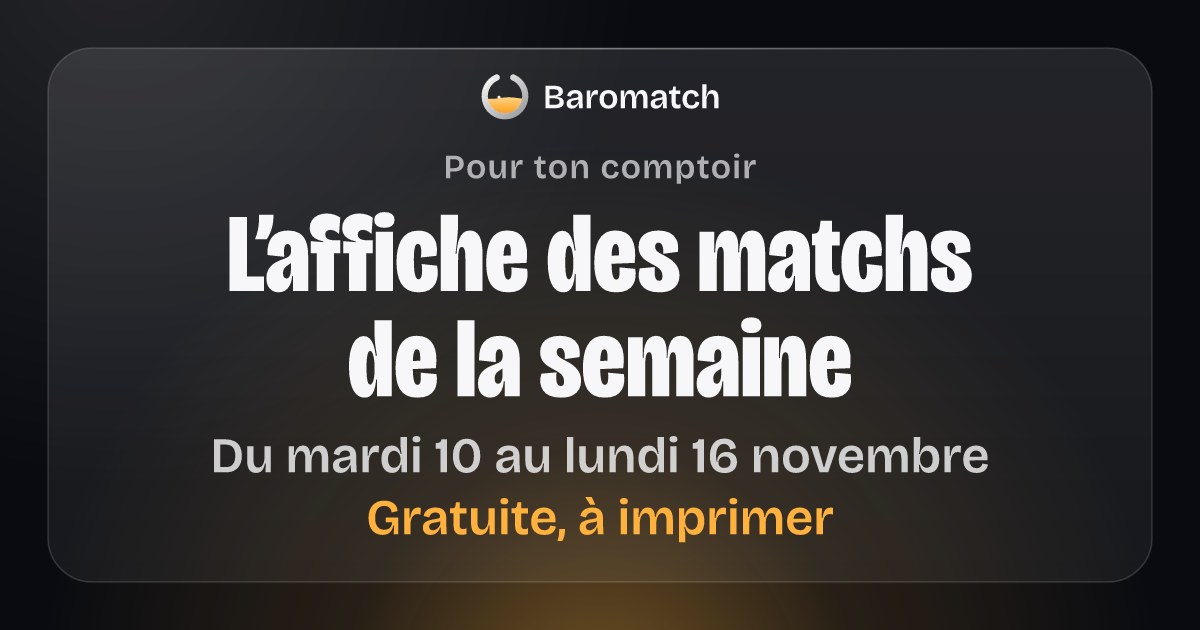
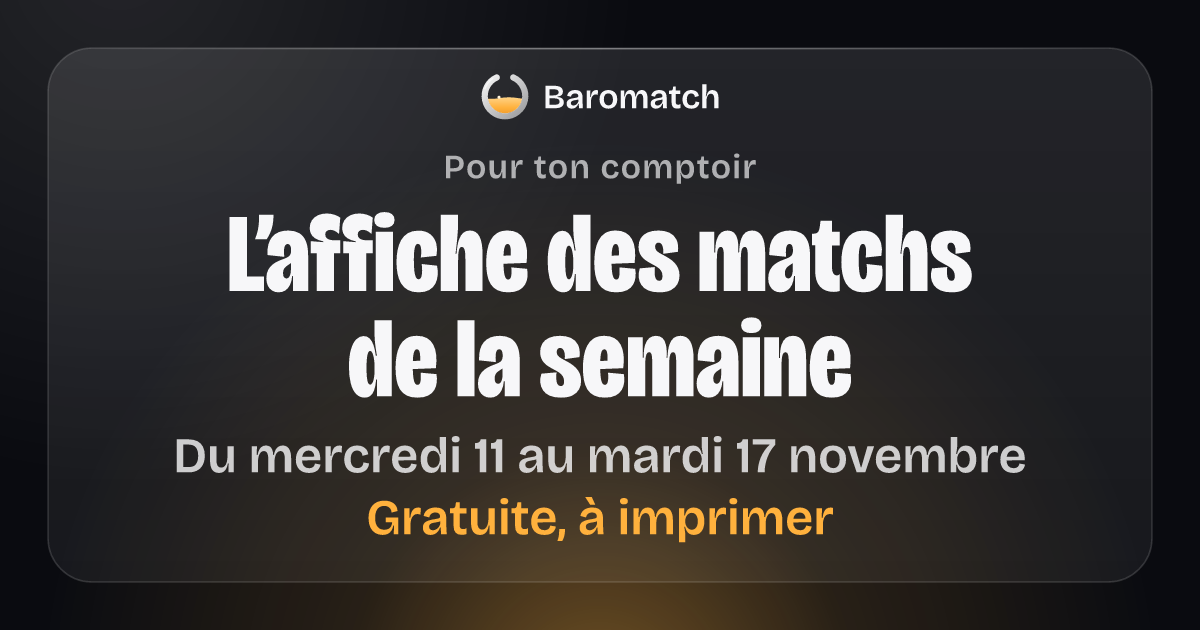
Pages des matchs : mise à jour du 11/11/2026 à 02:52

Changed region(s): [[0.1233, 0.6937, 0.8633, 0.754]]

diff --git a/matchs/affiche/pour-le-patron/index.html b/matchs/affiche/pour-le-patron/index.html
@@ -97,7 +97,7 @@
       <p class="affiche-appel">Propose ton bar : scanne le code.</p>
       <p class="affiche-appel__suite">Ou écris à contact@baromatch.fr</p>
       <p class="affiche-laissee" aria-hidden="true">Laissée par :<span class="affiche-laissee__trait"></span></p>
-      <p class="affiche-prepare"><svg class="affiche-verre" viewBox="0 0 200 200" aria-hidden="true" focusable="false"><clipPath id="affiche-bol"><circle cx="100" cy="100" r="67"/></clipPath><g clip-path="url(#affiche-bol)"><path d="M-200 108 q35 -6 70 0 t70 0 t70 0 t70 0 t70 0 t70 0 t70 0 t70 0 V215 H-200 Z" fill="#FFB13D"/></g><path d="M68.3 28.7 A78 78 0 1 0 131.7 28.7" fill="none" stroke="#0A0B10" stroke-width="16" stroke-linecap="round"/></svg><span>Feuille préparée sur baromatch.fr, le mardi 10 novembre.</span></p>
+      <p class="affiche-prepare"><svg class="affiche-verre" viewBox="0 0 200 200" aria-hidden="true" focusable="false"><clipPath id="affiche-bol"><circle cx="100" cy="100" r="67"/></clipPath><g clip-path="url(#affiche-bol)"><path d="M-200 108 q35 -6 70 0 t70 0 t70 0 t70 0 t70 0 t70 0 t70 0 t70 0 V215 H-200 Z" fill="#FFB13D"/></g><path d="M68.3 28.7 A78 78 0 1 0 131.7 28.7" fill="none" stroke="#0A0B10" stroke-width="16" stroke-linecap="round"/></svg><span>Feuille préparée sur baromatch.fr, le mercredi 11 novembre.</span></p>
     </div>
     <figure class="affiche-qr">
       <svg class="affiche-qr__code" viewBox="0 0 41 41" role="img" aria-label="QR code vers la page des bars de baromatch.fr, au formulaire pour proposer un bar" shape-rendering="crispEdges"><rect width="41" height="41" fill="#FFFFFF"/><path d="M4 4h7v1h-7zM12 4h1v1h-1zM15 4h1v1h-1zM18 4h2v1h-2zM21 4h1v1h-1zM25 4h1v1h-1zM27 4h1v1h-1zM30 4h7v1h-7zM4 5h1v1h-1zM10 5h1v1h-1zM20 5h2v1h-2zM23 5h1v1h-1zM25 5h2v1h-2zM30 5h1v1h-1zM36 5h1v1h-1zM4 6h1v1h-1zM6 6h3v1h-3zM10 6h1v1h-1zM13 6h2v1h-2zM17 6h1v1h-1zM20 6h1v1h-1zM23 6h3v1h-3zM27 6h2v1h-2zM30 6h1v1h-1zM32 6h3v1h-3zM36 6h1v1h-1zM4 7h1v1h-1zM6 7h3v1h-3zM10 7h1v1h-1zM12 7h1v1h-1zM14 7h2v1h-2zM18 7h2v1h-2zM21 7h4v1h-4zM30 7h1v1h-1zM32 7h3v1h-3zM36 7h1v1h-1zM4 8h1v1h-1zM6 8h3v1h-3zM10 8h1v1h-1zM12 8h3v1h-3zM16 8h1v1h-1zM18 8h1v1h-1zM22 8h3v1h-3zM26 8h2v1h-2zM30 8h1v1h-1zM32 8h3v1h-3zM36 8h1v1h-1zM4 9h1v1h-1zM10 9h1v1h-1zM12 9h1v1h-1zM17 9h1v1h-1zM20 9h1v1h-1zM22 9h2v1h-2zM28 9h1v1h-1zM30 9h1v1h-1zM36 9h1v1h-1zM4 10h7v1h-7zM12 10h1v1h-1zM14 10h1v1h-1zM16 10h1v1h-1zM18 10h1v1h-1zM20 10h1v1h-1zM22 10h1v1h-1zM24 10h1v1h-1zM26 10h1v1h-1zM28 10h1v1h-1zM30 10h7v1h-7zM12 11h4v1h-4zM18 11h4v1h-4zM25 11h1v1h-1zM27 11h1v1h-1zM4 12h1v1h-1zM8 12h1v1h-1zM10 12h3v1h-3zM14 12h1v1h-1zM16 12h1v1h-1zM20 12h2v1h-2zM23 12h4v1h-4zM28 12h6v1h-6zM36 12h1v1h-1zM5 13h3v1h-3zM9 13h1v1h-1zM12 13h3v1h-3zM17 13h4v1h-4zM22 13h1v1h-1zM24 13h1v1h-1zM26 13h2v1h-2zM29 13h1v1h-1zM33 13h2v1h-2zM5 14h1v1h-1zM7 14h2v1h-2zM10 14h1v1h-1zM19 14h1v1h-1zM21 14h1v1h-1zM26 14h5v1h-5zM33 14h1v1h-1zM35 14h1v1h-1zM4 15h1v1h-1zM6 15h2v1h-2zM14 15h1v1h-1zM18 15h2v1h-2zM21 15h3v1h-3zM25 15h1v1h-1zM28 15h1v1h-1zM36 15h1v1h-1zM4 16h1v1h-1zM10 16h2v1h-2zM15 16h4v1h-4zM22 16h6v1h-6zM29 16h2v1h-2zM32 16h2v1h-2zM35 16h2v1h-2zM5 17h1v1h-1zM7 17h1v1h-1zM9 17h1v1h-1zM11 17h1v1h-1zM14 17h1v1h-1zM17 17h1v1h-1zM20 17h2v1h-2zM23 17h1v1h-1zM27 17h1v1h-1zM29 17h1v1h-1zM31 17h1v1h-1zM34 17h1v1h-1zM5 18h2v1h-2zM8 18h4v1h-4zM16 18h1v1h-1zM18 18h1v1h-1zM20 18h1v1h-1zM22 18h2v1h-2zM25 18h1v1h-1zM27 18h4v1h-4zM32 18h1v1h-1zM34 18h2v1h-2zM4 19h4v1h-4zM13 19h3v1h-3zM18 19h1v1h-1zM21 19h6v1h-6zM28 19h3v1h-3zM33 19h1v1h-1zM4 20h4v1h-4zM10 20h3v1h-3zM14 20h3v1h-3zM19 20h1v1h-1zM21 20h1v1h-1zM25 20h4v1h-4zM30 20h1v1h-1zM32 20h1v1h-1zM35 20h1v1h-1zM5 21h1v1h-1zM7 21h3v1h-3zM11 21h2v1h-2zM16 21h1v1h-1zM18 21h4v1h-4zM27 21h1v1h-1zM29 21h1v1h-1zM33 21h2v1h-2zM5 22h3v1h-3zM10 22h1v1h-1zM14 22h1v1h-1zM16 22h5v1h-5zM22 22h1v1h-1zM25 22h1v1h-1zM27 22h1v1h-1zM31 22h1v1h-1zM33 22h1v1h-1zM35 22h1v1h-1zM6 23h2v1h-2zM9 23h1v1h-1zM11 23h2v1h-2zM14 23h1v1h-1zM18 23h2v1h-2zM23 23h3v1h-3zM29 23h3v1h-3zM35 23h1v1h-1zM6 24h1v1h-1zM10 24h2v1h-2zM13 24h1v1h-1zM15 24h1v1h-1zM19 24h2v1h-2zM23 24h1v1h-1zM25 24h2v1h-2zM28 24h1v1h-1zM30 24h1v1h-1zM32 24h2v1h-2zM35 24h2v1h-2zM4 25h5v1h-5zM11 25h3v1h-3zM18 25h1v1h-1zM22 25h3v1h-3zM26 25h2v1h-2zM31 25h1v1h-1zM33 25h1v1h-1zM35 25h1v1h-1zM6 26h5v1h-5zM12 26h1v1h-1zM14 26h2v1h-2zM19 26h1v1h-1zM21 26h2v1h-2zM24 26h1v1h-1zM26 26h2v1h-2zM31 26h5v1h-5zM8 27h2v1h-2zM12 27h1v1h-1zM18 27h5v1h-5zM25 27h1v1h-1zM30 27h1v1h-1zM32 27h1v1h-1zM4 28h5v1h-5zM10 28h1v1h-1zM14 28h1v1h-1zM16 28h2v1h-2zM21 28h1v1h-1zM23 28h4v1h-4zM28 28h5v1h-5zM35 28h2v1h-2zM12 29h3v1h-3zM16 29h1v1h-1zM18 29h3v1h-3zM27 29h2v1h-2zM32 29h1v1h-1zM34 29h2v1h-2zM4 30h7v1h-7zM12 30h1v1h-1zM15 30h2v1h-2zM19 30h1v1h-1zM21 30h1v1h-1zM26 30h1v1h-1zM28 30h1v1h-1zM30 30h1v1h-1zM32 30h2v1h-2zM35 30h1v1h-1zM4 31h1v1h-1zM10 31h1v1h-1zM16 31h4v1h-4zM21 31h6v1h-6zM28 31h1v1h-1zM32 31h1v1h-1zM36 31h1v1h-1zM4 32h1v1h-1zM6 32h3v1h-3zM10 32h1v1h-1zM12 32h3v1h-3zM17 32h1v1h-1zM19 32h1v1h-1zM22 32h1v1h-1zM24 32h1v1h-1zM28 32h6v1h-6zM35 32h2v1h-2zM4 33h1v1h-1zM6 33h3v1h-3zM10 33h1v1h-1zM14 33h3v1h-3zM20 33h1v1h-1zM23 33h1v1h-1zM25 33h1v1h-1zM27 33h2v1h-2zM30 33h3v1h-3zM4 34h1v1h-1zM6 34h3v1h-3zM10 34h1v1h-1zM13 34h4v1h-4zM20 34h1v1h-1zM23 34h1v1h-1zM25 34h3v1h-3zM30 34h4v1h-4zM4 35h1v1h-1zM10 35h1v1h-1zM14 35h5v1h-5zM21 35h1v1h-1zM23 35h4v1h-4zM28 35h1v1h-1zM4 36h7v1h-7zM12 36h1v1h-1zM14 36h1v1h-1zM16 36h1v1h-1zM18 36h2v1h-2zM21 36h2v1h-2zM24 36h2v1h-2zM27 36h4v1h-4zM33 36h1v1h-1zM36 36h1v1h-1z" fill="#000000"/></svg>
@@ -122,7 +122,7 @@
       <p class="affiche-appel">Propose ton bar : scanne le code.</p>
       <p class="affiche-appel__suite">Ou écris à contact@baromatch.fr</p>
       <p class="affiche-laissee" aria-hidden="true">Laissée par :<span class="affiche-laissee__trait"></span></p>
-      <p class="affiche-prepare"><svg class="affiche-verre" viewBox="0 0 200 200" aria-hidden="true" focusable="false"><clipPath id="affiche-bol-copie"><circle cx="100" cy="100" r="67"/></clipPath><g clip-path="url(#affiche-bol-copie)"><path d="M-200 108 q35 -6 70 0 t70 0 t70 0 t70 0 t70 0 t70 0 t70 0 t70 0 V215 H-200 Z" fill="#FFB13D"/></g><path d="M68.3 28.7 A78 78 0 1 0 131.7 28.7" fill="none" stroke="#0A0B10" stroke-width="16" stroke-linecap="round"/></svg><span>Feuille préparée sur baromatch.fr, le mardi 10 novembre.</span></p>
+      <p class="affiche-prepare"><svg class="affiche-verre" viewBox="0 0 200 200" aria-hidden="true" focusable="false"><clipPath id="affiche-bol-copie"><circle cx="100" cy="100" r="67"/></clipPath><g clip-path="url(#affiche-bol-copie)"><path d="M-200 108 q35 -6 70 0 t70 0 t70 0 t70 0 t70 0 t70 0 t70 0 t70 0 V215 H-200 Z" fill="#FFB13D"/></g><path d="M68.3 28.7 A78 78 0 1 0 131.7 28.7" fill="none" stroke="#0A0B10" stroke-width="16" stroke-linecap="round"/></svg><span>Feuille préparée sur baromatch.fr, le mercredi 11 novembre.</span></p>
     </div>
     <figure class="affiche-qr">
       <svg class="affiche-qr__code" viewBox="0 0 41 41" role="img" aria-label="QR code vers la page des bars de baromatch.fr, au formulaire pour proposer un bar" shape-rendering="crispEdges"><rect width="41" height="41" fill="#FFFFFF"/><path d="M4 4h7v1h-7zM12 4h1v1h-1zM15 4h1v1h-1zM18 4h2v1h-2zM21 4h1v1h-1zM25 4h1v1h-1zM27 4h1v1h-1zM30 4h7v1h-7zM4 5h1v1h-1zM10 5h1v1h-1zM20 5h2v1h-2zM23 5h1v1h-1zM25 5h2v1h-2zM30 5h1v1h-1zM36 5h1v1h-1zM4 6h1v1h-1zM6 6h3v1h-3zM10 6h1v1h-1zM13 6h2v1h-2zM17 6h1v1h-1zM20 6h1v1h-1zM23 6h3v1h-3zM27 6h2v1h-2zM30 6h1v1h-1zM32 6h3v1h-3zM36 6h1v1h-1zM4 7h1v1h-1zM6 7h3v1h-3zM10 7h1v1h-1zM12 7h1v1h-1zM14 7h2v1h-2zM18 7h2v1h-2zM21 7h4v1h-4zM30 7h1v1h-1zM32 7h3v1h-3zM36 7h1v1h-1zM4 8h1v1h-1zM6 8h3v1h-3zM10 8h1v1h-1zM12 8h3v1h-3zM16 8h1v1h-1zM18 8h1v1h-1zM22 8h3v1h-3zM26 8h2v1h-2zM30 8h1v1h-1zM32 8h3v1h-3zM36 8h1v1h-1zM4 9h1v1h-1zM10 9h1v1h-1zM12 9h1v1h-1zM17 9h1v1h-1zM20 9h1v1h-1zM22 9h2v1h-2zM28 9h1v1h-1zM30 9h1v1h-1zM36 9h1v1h-1zM4 10h7v1h-7zM12 10h1v1h-1zM14 10h1v1h-1zM16 10h1v1h-1zM18 10h1v1h-1zM20 10h1v1h-1zM22 10h1v1h-1zM24 10h1v1h-1zM26 10h1v1h-1zM28 10h1v1h-1zM30 10h7v1h-7zM12 11h4v1h-4zM18 11h4v1h-4zM25 11h1v1h-1zM27 11h1v1h-1zM4 12h1v1h-1zM8 12h1v1h-1zM10 12h3v1h-3zM14 12h1v1h-1zM16 12h1v1h-1zM20 12h2v1h-2zM23 12h4v1h-4zM28 12h6v1h-6zM36 12h1v1h-1zM5 13h3v1h-3zM9 13h1v1h-1zM12 13h3v1h-3zM17 13h4v1h-4zM22 13h1v1h-1zM24 13h1v1h-1zM26 13h2v1h-2zM29 13h1v1h-1zM33 13h2v1h-2zM5 14h1v1h-1zM7 14h2v1h-2zM10 14h1v1h-1zM19 14h1v1h-1zM21 14h1v1h-1zM26 14h5v1h-5zM33 14h1v1h-1zM35 14h1v1h-1zM4 15h1v1h-1zM6 15h2v1h-2zM14 15h1v1h-1zM18 15h2v1h-2zM21 15h3v1h-3zM25 15h1v1h-1zM28 15h1v1h-1zM36 15h1v1h-1zM4 16h1v1h-1zM10 16h2v1h-2zM15 16h4v1h-4zM22 16h6v1h-6zM29 16h2v1h-2zM32 16h2v1h-2zM35 16h2v1h-2zM5 17h1v1h-1zM7 17h1v1h-1zM9 17h1v1h-1zM11 17h1v1h-1zM14 17h1v1h-1zM17 17h1v1h-1zM20 17h2v1h-2zM23 17h1v1h-1zM27 17h1v1h-1zM29 17h1v1h-1zM31 17h1v1h-1zM34 17h1v1h-1zM5 18h2v1h-2zM8 18h4v1h-4zM16 18h1v1h-1zM18 18h1v1h-1zM20 18h1v1h-1zM22 18h2v1h-2zM25 18h1v1h-1zM27 18h4v1h-4zM32 18h1v1h-1zM34 18h2v1h-2zM4 19h4v1h-4zM13 19h3v1h-3zM18 19h1v1h-1zM21 19h6v1h-6zM28 19h3v1h-3zM33 19h1v1h-1zM4 20h4v1h-4zM10 20h3v1h-3zM14 20h3v1h-3zM19 20h1v1h-1zM21 20h1v1h-1zM25 20h4v1h-4zM30 20h1v1h-1zM32 20h1v1h-1zM35 20h1v1h-1zM5 21h1v1h-1zM7 21h3v1h-3zM11 21h2v1h-2zM16 21h1v1h-1zM18 21h4v1h-4zM27 21h1v1h-1zM29 21h1v1h-1zM33 21h2v1h-2zM5 22h3v1h-3zM10 22h1v1h-1zM14 22h1v1h-1zM16 22h5v1h-5zM22 22h1v1h-1zM25 22h1v1h-1zM27 22h1v1h-1zM31 22h1v1h-1zM33 22h1v1h-1zM35 22h1v1h-1zM6 23h2v1h-2zM9 23h1v1h-1zM11 23h2v1h-2zM14 23h1v1h-1zM18 23h2v1h-2zM23 23h3v1h-3zM29 23h3v1h-3zM35 23h1v1h-1zM6 24h1v1h-1zM10 24h2v1h-2zM13 24h1v1h-1zM15 24h1v1h-1zM19 24h2v1h-2zM23 24h1v1h-1zM25 24h2v1h-2zM28 24h1v1h-1zM30 24h1v1h-1zM32 24h2v1h-2zM35 24h2v1h-2zM4 25h5v1h-5zM11 25h3v1h-3zM18 25h1v1h-1zM22 25h3v1h-3zM26 25h2v1h-2zM31 25h1v1h-1zM33 25h1v1h-1zM35 25h1v1h-1zM6 26h5v1h-5zM12 26h1v1h-1zM14 26h2v1h-2zM19 26h1v1h-1zM21 26h2v1h-2zM24 26h1v1h-1zM26 26h2v1h-2zM31 26h5v1h-5zM8 27h2v1h-2zM12 27h1v1h-1zM18 27h5v1h-5zM25 27h1v1h-1zM30 27h1v1h-1zM32 27h1v1h-1zM4 28h5v1h-5zM10 28h1v1h-1zM14 28h1v1h-1zM16 28h2v1h-2zM21 28h1v1h-1zM23 28h4v1h-4zM28 28h5v1h-5zM35 28h2v1h-2zM12 29h3v1h-3zM16 29h1v1h-1zM18 29h3v1h-3zM27 29h2v1h-2zM32 29h1v1h-1zM34 29h2v1h-2zM4 30h7v1h-7zM12 30h1v1h-1zM15 30h2v1h-2zM19 30h1v1h-1zM21 30h1v1h-1zM26 30h1v1h-1zM28 30h1v1h-1zM30 30h1v1h-1zM32 30h2v1h-2zM35 30h1v1h-1zM4 31h1v1h-1zM10 31h1v1h-1zM16 31h4v1h-4zM21 31h6v1h-6zM28 31h1v1h-1zM32 31h1v1h-1zM36 31h1v1h-1zM4 32h1v1h-1zM6 32h3v1h-3zM10 32h1v1h-1zM12 32h3v1h-3zM17 32h1v1h-1zM19 32h1v1h-1zM22 32h1v1h-1zM24 32h1v1h-1zM28 32h6v1h-6zM35 32h2v1h-2zM4 33h1v1h-1zM6 33h3v1h-3zM10 33h1v1h-1zM14 33h3v1h-3zM20 33h1v1h-1zM23 33h1v1h-1zM25 33h1v1h-1zM27 33h2v1h-2zM30 33h3v1h-3zM4 34h1v1h-1zM6 34h3v1h-3zM10 34h1v1h-1zM13 34h4v1h-4zM20 34h1v1h-1zM23 34h1v1h-1zM25 34h3v1h-3zM30 34h4v1h-4zM4 35h1v1h-1zM10 35h1v1h-1zM14 35h5v1h-5zM21 35h1v1h-1zM23 35h4v1h-4zM28 35h1v1h-1zM4 36h7v1h-7zM12 36h1v1h-1zM14 36h1v1h-1zM16 36h1v1h-1zM18 36h2v1h-2zM21 36h2v1h-2zM24 36h2v1h-2zM27 36h4v1h-4zM33 36h1v1h-1zM36 36h1v1h-1z" fill="#000000"/></svg>

diff --git a/ce-soir/index.html b/ce-soir/index.html
@@ -6,8 +6,8 @@
 <!-- Page écrite par le générateur des pages des matchs (dossier generateur du dépôt), à chaque passage : une retouche
      à la main serait effacée au suivant. Aucun script écrit dans la page : seulement les fichiers du site. -->
 <meta http-equiv="Content-Security-Policy" content="default-src 'self'; script-src 'self'; style-src 'self'; img-src 'self' data:; font-src 'self'; connect-src 'self'; base-uri 'none'; object-src 'none'; form-action https://formspree.io">
-<title>Les matchs de ce soir, mardi 10 novembre — Baromatch</title>
-<meta name="description" content="Mardi 10 novembre : pas de match annoncé ce soir. Les prochains, à l’heure de Paris, et les villes, sur Baromatch.">
+<title>Les matchs de ce soir, mercredi 11 novembre — Baromatch</title>
+<meta name="description" content="Mercredi 11 novembre : pas de match annoncé ce soir. Les prochains, à l’heure de Paris, et les villes, sur Baromatch.">
 <meta name="robots" content="noindex">
 <link rel="canonical" href="https://baromatch.fr/ce-soir/">
 <meta name="theme-color" content="#0A0B10">
@@ -20,18 +20,18 @@
 <meta property="og:type" content="website">
 <meta property="og:locale" content="fr_FR">
 <meta property="og:site_name" content="Baromatch">
-<meta property="og:title" content="Les matchs de ce soir, mardi 10 novembre — Baromatch">
-<meta property="og:description" content="Mardi 10 novembre : pas de match annoncé ce soir. Les prochains, à l’heure de Paris, et les villes, sur Baromatch.">
+<meta property="og:title" content="Les matchs de ce soir, mercredi 11 novembre — Baromatch">
+<meta property="og:description" content="Mercredi 11 novembre : pas de match annoncé ce soir. Les prochains, à l’heure de Paris, et les villes, sur Baromatch.">
 <meta property="og:url" content="https://baromatch.fr/ce-soir/">
-<meta property="og:image" content="https://baromatch.fr/ce-soir/partage.png?v=_3WEw6RPpv">
+<meta property="og:image" content="https://baromatch.fr/ce-soir/partage.png?v=IZxHf0Q0E2">
 <meta property="og:image:width" content="1200">
 <meta property="og:image:height" content="630">
-<meta property="og:image:alt" content="Mardi 10 novembre. Pas de match annoncé.">
+<meta property="og:image:alt" content="Mercredi 11 novembre. Pas de match annoncé.">
 <meta name="twitter:card" content="summary_large_image">
 <meta name="twitter:site" content="@baromatchapp">
-<meta name="twitter:image" content="https://baromatch.fr/ce-soir/partage.png?v=_3WEw6RPpv">
+<meta name="twitter:image" content="https://baromatch.fr/ce-soir/partage.png?v=IZxHf0Q0E2">
 <script src="/partage.js" defer></script>
-<script type="application/ld+json">{"@context":"https://schema.org","@graph":[{"@type":"CollectionPage","@id":"https://baromatch.fr/ce-soir/","url":"https://baromatch.fr/ce-soir/","name":"Les matchs de ce soir, mardi 10 novembre — Baromatch","description":"Mardi 10 novembre : pas de match annoncé ce soir. Les prochains, à l’heure de Paris, et les villes, sur Baromatch.","inLanguage":"fr-FR","isPartOf":{"@id":"https://baromatch.fr/#site"},"publisher":{"@id":"https://baromatch.fr/#organisation"}},{"@type":"BreadcrumbList","itemListElement":[{"@type":"ListItem","position":1,"name":"Accueil","item":"https://baromatch.fr/"},{"@type":"ListItem","position":2,"name":"Ce soir","item":"https://baromatch.fr/ce-soir/"}]},{"@type":"ItemList","name":"Les prochains matchs","numberOfItems":8,"itemListElement":[{"@type":"ListItem","position":1,"name":"Italie – France","url":"https://baromatch.fr/matchs/italie-france-2026-11-12/"},{"@type":"ListItem","position":2,"name":"France – Turquie","url":"https://baromatch.fr/matchs/france-turquie-2026-11-15/"},{"@type":"ListItem","position":3,"name":"Troyes – Le Havre","url":"https://baromatch.fr/matchs/troyes-le-havre-2026-11-20/"},{"@type":"ListItem","position":4,"name":"Nice – PSG","url":"https://baromatch.fr/matchs/nice-psg-2026-11-21/"},{"@type":"ListItem","position":5,"name":"Newcastle – Arsenal","url":"https://baromatch.fr/matchs/newcastle-arsenal-2026-11-21/"},{"@type":"ListItem","position":6,"name":"Lens – Toulouse","url":"https://baromatch.fr/matchs/lens-toulouse-2026-11-21/"},{"@type":"ListItem","position":7,"name":"Lille – OL","url":"https://baromatch.fr/matchs/lille-ol-2026-11-21/"},{"@type":"ListItem","position":8,"name":"Monaco – Auxerre","url":"https://baromatch.fr/matchs/monaco-auxerre-2026-11-21/"}]}]}</script>
+<script type="application/ld+json">{"@context":"https://schema.org","@graph":[{"@type":"CollectionPage","@id":"https://baromatch.fr/ce-soir/","url":"https://baromatch.fr/ce-soir/","name":"Les matchs de ce soir, mercredi 11 novembre — Baromatch","description":"Mercredi 11 novembre : pas de match annoncé ce soir. Les prochains, à l’heure de Paris, et les villes, sur Baromatch.","inLanguage":"fr-FR","isPartOf":{"@id":"https://baromatch.fr/#site"},"publisher":{"@id":"https://baromatch.fr/#organisation"}},{"@type":"BreadcrumbList","itemListElement":[{"@type":"ListItem","position":1,"name":"Accueil","item":"https://baromatch.fr/"},{"@type":"ListItem","position":2,"name":"Ce soir","item":"https://baromatch.fr/ce-soir/"}]},{"@type":"ItemList","name":"Les prochains matchs","numberOfItems":8,"itemListElement":[{"@type":"ListItem","position":1,"name":"Italie – France","url":"https://baromatch.fr/matchs/italie-france-2026-11-12/"},{"@type":"ListItem","position":2,"name":"France – Turquie","url":"https://baromatch.fr/matchs/france-turquie-2026-11-15/"},{"@type":"ListItem","position":3,"name":"Troyes – Le Havre","url":"https://baromatch.fr/matchs/troyes-le-havre-2026-11-20/"},{"@type":"ListItem","position":4,"name":"Nice – PSG","url":"https://baromatch.fr/matchs/nice-psg-2026-11-21/"},{"@type":"ListItem","position":5,"name":"Newcastle – Arsenal","url":"https://baromatch.fr/matchs/newcastle-arsenal-2026-11-21/"},{"@type":"ListItem","position":6,"name":"Lens – Toulouse","url":"https://baromatch.fr/matchs/lens-toulouse-2026-11-21/"},{"@type":"ListItem","position":7,"name":"Lille – OL","url":"https://baromatch.fr/matchs/lille-ol-2026-11-21/"},{"@type":"ListItem","position":8,"name":"Monaco – Auxerre","url":"https://baromatch.fr/matchs/monaco-auxerre-2026-11-21/"}]}]}</script>
 </head>
 <body>
 <a class="lien-evitement" href="#contenu">Aller au contenu</a>
@@ -61,12 +61,12 @@
 </nav>
 <header class="regarder-tete">
   <h1 class="regarder-titre">Les matchs de ce soir</h1>
-  <p class="regarder-quand">Mardi 10 novembre</p>
+  <p class="regarder-quand">Mercredi 11 novembre</p>
   <p class="regarder-chapeau">Les matchs du jour, à l’heure de Paris.</p>
 </header>
-<div class="partage" role="group" aria-label="Partager la page" data-titre="Les matchs de ce soir, mardi 10 novembre — Baromatch" data-adresse="https://baromatch.fr/ce-soir/" data-copie="Lien copié." data-echec="Copie impossible : appuie longtemps sur le lien pour le copier.">
+<div class="partage" role="group" aria-label="Partager la page" data-titre="Les matchs de ce soir, mercredi 11 novembre — Baromatch" data-adresse="https://baromatch.fr/ce-soir/" data-copie="Lien copié." data-echec="Copie impossible : appuie longtemps sur le lien pour le copier.">
   <button class="partage__bouton partage__natif" type="button" hidden>Partager</button>
-  <a class="partage__bouton partage__whatsapp" href="https://wa.me/?text=Les%20matchs%20de%20ce%20soir%2C%20mardi%2010%20novembre%20%E2%80%94%20Baromatch%20https%3A%2F%2Fbaromatch.fr%2Fce-soir%2F" rel="noopener">Envoyer sur WhatsApp</a>
+  <a class="partage__bouton partage__whatsapp" href="https://wa.me/?text=Les%20matchs%20de%20ce%20soir%2C%20mercredi%2011%20novembre%20%E2%80%94%20Baromatch%20https%3A%2F%2Fbaromatch.fr%2Fce-soir%2F" rel="noopener">Envoyer sur WhatsApp</a>
   <button class="partage__bouton partage__copier" type="button" hidden>Copier le lien</button>
   <a class="partage__lien" href="https://baromatch.fr/ce-soir/">baromatch.fr/ce-soir/</a>
   <p class="partage__statut" role="status" aria-live="polite"></p>

diff --git a/matchs/affiche/index.html b/matchs/affiche/index.html
@@ -24,13 +24,13 @@
 <meta property="og:title" content="Affiche des matchs de foot de la semaine pour ton bar">
 <meta property="og:description" content="Les matchs des sept prochains jours, à l’heure de Paris : coche ceux que tu diffuses et imprime ton affiche en A4 ou en A3. Gratuit, sans compte.">
 <meta property="og:url" content="https://baromatch.fr/matchs/affiche/">
-<meta property="og:image" content="https://baromatch.fr/matchs/affiche/partage.png?v=etg99AV8Zo">
+<meta property="og:image" content="https://baromatch.fr/matchs/affiche/partage.png?v=wTDLhocym8">
 <meta property="og:image:width" content="1200">
 <meta property="og:image:height" content="630">
-<meta property="og:image:alt" content="L’affiche des matchs de la semaine, du mardi 10 au lundi 16 novembre. Gratuite, à imprimer.">
+<meta property="og:image:alt" content="L’affiche des matchs de la semaine, du mercredi 11 au mardi 17 novembre. Gratuite, à imprimer.">
 <meta name="twitter:card" content="summary_large_image">
 <meta name="twitter:site" content="@baromatchapp">
-<meta name="twitter:image" content="https://baromatch.fr/matchs/affiche/partage.png?v=etg99AV8Zo">
+<meta name="twitter:image" content="https://baromatch.fr/matchs/affiche/partage.png?v=wTDLhocym8">
 <script type="application/ld+json">{"@context":"https://schema.org","@graph":[{"@type":"WebPage","@id":"https://baromatch.fr/matchs/affiche/","url":"https://baromatch.fr/matchs/affiche/","name":"Affiche des matchs de foot de la semaine pour ton bar","description":"Les matchs des sept prochains jours, à l’heure de Paris : coche ceux que tu diffuses et imprime ton affiche en A4 ou en A3. Gratuit, sans compte.","inLanguage":"fr-FR","isPartOf":{"@id":"https://baromatch.fr/#site"},"publisher":{"@id":"https://baromatch.fr/#organisation"}},{"@type":"BreadcrumbList","itemListElement":[{"@type":"ListItem","position":1,"name":"Accueil","item":"https://baromatch.fr/"},{"@type":"ListItem","position":2,"name":"Les matchs de la semaine","item":"https://baromatch.fr/matchs/"},{"@type":"ListItem","position":3,"name":"L’affiche de la semaine","item":"https://baromatch.fr/matchs/affiche/"}]}]}</script>
 </head>
 <body>
@@ -82,7 +82,7 @@
   <div class="affiche">
   <div class="affiche-tete">
     <h3 class="affiche-titre">Les matchs ici</h3>
-    <p class="affiche-dates">Du mardi 10 au lundi 16 novembre</p>
+    <p class="affiche-dates">Du mercredi 11 au mardi 17 novembre</p>
   </div>
   <section class="affiche-jour" aria-labelledby="jour-2026-11-12">
     <h4 class="affiche-jour__nom" id="jour-2026-11-12"><time datetime="2026-11-12">Jeudi 12</time></h4>
@@ -100,7 +100,7 @@
     <div class="affiche-pied__texte">
       <p class="affiche-stylo" aria-hidden="true">À compléter au stylo</p>
       <ul class="affiche-blanc" aria-hidden="true"><li></li><li></li></ul>
-      <p class="affiche-prepare"><svg class="affiche-verre" viewBox="0 0 200 200" aria-hidden="true" focusable="false"><clipPath id="affiche-bol"><circle cx="100" cy="100" r="67"/></clipPath><g clip-path="url(#affiche-bol)"><path d="M-200 108 q35 -6 70 0 t70 0 t70 0 t70 0 t70 0 t70 0 t70 0 t70 0 V215 H-200 Z" fill="#FFB13D"/></g><path d="M68.3 28.7 A78 78 0 1 0 131.7 28.7" fill="none" stroke="#0A0B10" stroke-width="16" stroke-linecap="round"/></svg><span>Programme préparé sur baromatch.fr, à l’heure de Paris, le mardi 10 novembre.</span></p>
+      <p class="affiche-prepare"><svg class="affiche-verre" viewBox="0 0 200 200" aria-hidden="true" focusable="false"><clipPath id="affiche-bol"><circle cx="100" cy="100" r="67"/></clipPath><g clip-path="url(#affiche-bol)"><path d="M-200 108 q35 -6 70 0 t70 0 t70 0 t70 0 t70 0 t70 0 t70 0 t70 0 V215 H-200 Z" fill="#FFB13D"/></g><path d="M68.3 28.7 A78 78 0 1 0 131.7 28.7" fill="none" stroke="#0A0B10" stroke-width="16" stroke-linecap="round"/></svg><span>Programme préparé sur baromatch.fr, à l’heure de Paris, le mercredi 11 novembre.</span></p>
     </div>
     <figure class="affiche-qr">
       <svg class="affiche-qr__code" viewBox="0 0 33 33" role="img" aria-label="QR code vers baromatch.fr" shape-rendering="crispEdges"><rect width="33" height="33" fill="#FFFFFF"/><path d="M4 4h7v1h-7zM13 4h3v1h-3zM18 4h1v1h-1zM20 4h1v1h-1zM22 4h7v1h-7zM4 5h1v1h-1zM10 5h1v1h-1zM12 5h1v1h-1zM14 5h1v1h-1zM16 5h3v1h-3zM22 5h1v1h-1zM28 5h1v1h-1zM4 6h1v1h-1zM6 6h3v1h-3zM10 6h1v1h-1zM12 6h2v1h-2zM16 6h1v1h-1zM19 6h1v1h-1zM22 6h1v1h-1zM24 6h3v1h-3zM28 6h1v1h-1zM4 7h1v1h-1zM6 7h3v1h-3zM10 7h1v1h-1zM12 7h6v1h-6zM19 7h2v1h-2zM22 7h1v1h-1zM24 7h3v1h-3zM28 7h1v1h-1zM4 8h1v1h-1zM6 8h3v1h-3zM10 8h1v1h-1zM13 8h1v1h-1zM15 8h1v1h-1zM20 8h1v1h-1zM22 8h1v1h-1zM24 8h3v1h-3zM28 8h1v1h-1zM4 9h1v1h-1zM10 9h1v1h-1zM17 9h2v1h-2zM20 9h1v1h-1zM22 9h1v1h-1zM28 9h1v1h-1zM4 10h7v1h-7zM12 10h1v1h-1zM14 10h1v1h-1zM16 10h1v1h-1zM18 10h1v1h-1zM20 10h1v1h-1zM22 10h7v1h-7zM12 11h1v1h-1zM16 11h1v1h-1zM19 11h1v1h-1zM4 12h1v1h-1zM10 12h1v1h-1zM12 12h1v1h-1zM15 12h1v1h-1zM17 12h3v1h-3zM21 12h2v1h-2zM25 12h3v1h-3zM5 13h4v1h-4zM16 13h1v1h-1zM19 13h1v1h-1zM23 13h5v1h-5zM4 14h3v1h-3zM10 14h1v1h-1zM12 14h2v1h-2zM16 14h2v1h-2zM19 14h1v1h-1zM22 14h1v1h-1zM24 14h2v1h-2zM27 14h2v1h-2zM5 15h2v1h-2zM8 15h2v1h-2zM11 15h1v1h-1zM15 15h1v1h-1zM20 15h3v1h-3zM25 15h1v1h-1zM28 15h1v1h-1zM6 16h2v1h-2zM9 16h3v1h-3zM14 16h1v1h-1zM16 16h1v1h-1zM18 16h2v1h-2zM22 16h2v1h-2zM28 16h1v1h-1zM4 17h1v1h-1zM6 17h4v1h-4zM11 17h1v1h-1zM13 17h2v1h-2zM17 17h1v1h-1zM19 17h3v1h-3zM23 17h1v1h-1zM27 17h1v1h-1zM4 18h1v1h-1zM10 18h1v1h-1zM12 18h2v1h-2zM15 18h6v1h-6zM22 18h4v1h-4zM27 18h2v1h-2zM4 19h1v1h-1zM6 19h3v1h-3zM11 19h2v1h-2zM14 19h2v1h-2zM20 19h1v1h-1zM23 19h1v1h-1zM25 19h2v1h-2zM28 19h1v1h-1zM4 20h1v1h-1zM7 20h1v1h-1zM10 20h2v1h-2zM13 20h1v1h-1zM15 20h1v1h-1zM19 20h6v1h-6zM26 20h1v1h-1zM12 21h1v1h-1zM16 21h2v1h-2zM20 21h1v1h-1zM24 21h1v1h-1zM4 22h7v1h-7zM14 22h2v1h-2zM20 22h1v1h-1zM22 22h1v1h-1zM24 22h1v1h-1zM28 22h1v1h-1zM4 23h1v1h-1zM10 23h1v1h-1zM13 23h1v1h-1zM16 23h2v1h-2zM19 23h2v1h-2zM24 23h1v1h-1zM27 23h2v1h-2zM4 24h1v1h-1zM6 24h3v1h-3zM10 24h1v1h-1zM14 24h1v1h-1zM16 24h1v1h-1zM18 24h7v1h-7zM26 24h3v1h-3zM4 25h1v1h-1zM6 25h3v1h-3zM10 25h1v1h-1zM13 25h1v1h-1zM18 25h5v1h-5zM27 25h2v1h-2zM4 26h1v1h-1zM6 26h3v1h-3zM10 26h1v1h-1zM13 26h4v1h-4zM20 26h1v1h-1zM25 26h2v1h-2zM28 26h1v1h-1zM4 27h1v1h-1zM10 27h1v1h-1zM13 27h3v1h-3zM18 27h1v1h-1zM20 27h2v1h-2zM23 27h2v1h-2zM28 27h1v1h-1zM4 28h7v1h-7zM12 28h3v1h-3zM17 28h2v1h-2zM20 28h1v1h-1zM25 28h1v1h-1zM28 28h1v1h-1z" fill="#000000"/></svg>

diff --git a/matchs/index.html b/matchs/index.html
@@ -7,7 +7,7 @@
      à la main serait effacée au suivant. Aucun script écrit dans la page : seulement les fichiers du site. -->
 <meta http-equiv="Content-Security-Policy" content="default-src 'self'; script-src 'self'; style-src 'self'; img-src 'self' data:; font-src 'self'; connect-src 'self'; base-uri 'none'; object-src 'none'; form-action https://formspree.io">
 <title>Les matchs de la semaine — Baromatch</title>
-<meta name="description" content="2 matchs d’ici lundi 16 novembre, à l’heure de Paris. Baromatch cherche ses premiers bars à Paris.">
+<meta name="description" content="2 matchs d’ici mardi 17 novembre, à l’heure de Paris. Baromatch cherche ses premiers bars à Paris.">
 <meta name="robots" content="noindex">
 <link rel="canonical" href="https://baromatch.fr/matchs/">
 <meta name="theme-color" content="#0A0B10">
@@ -21,7 +21,7 @@
 <meta property="og:locale" content="fr_FR">
 <meta property="og:site_name" content="Baromatch">
 <meta property="og:title" content="Les matchs de la semaine — Baromatch">
-<meta property="og:description" content="2 matchs d’ici lundi 16 novembre, à l’heure de Paris. Baromatch cherche ses premiers bars à Paris.">
+<meta property="og:description" content="2 matchs d’ici mardi 17 novembre, à l’heure de Paris. Baromatch cherche ses premiers bars à Paris.">
 <meta property="og:url" content="https://baromatch.fr/matchs/">
 <meta property="og:image" content="https://baromatch.fr/img/og-image.jpg">
 <meta property="og:image:width" content="1200">
@@ -30,7 +30,7 @@
 <meta name="twitter:card" content="summary_large_image">
 <meta name="twitter:site" content="@baromatchapp">
 <meta name="twitter:image" content="https://baromatch.fr/img/og-image.jpg">
-<script type="application/ld+json">{"@context":"https://schema.org","@graph":[{"@type":"CollectionPage","@id":"https://baromatch.fr/matchs/","url":"https://baromatch.fr/matchs/","name":"Les matchs de la semaine — Baromatch","description":"2 matchs d’ici lundi 16 novembre, à l’heure de Paris. Baromatch cherche ses premiers bars à Paris.","inLanguage":"fr-FR","isPartOf":{"@id":"https://baromatch.fr/#site"},"publisher":{"@id":"https://baromatch.fr/#organisation"}},{"@type":"BreadcrumbList","itemListElement":[{"@type":"ListItem","position":1,"name":"Accueil","item":"https://baromatch.fr/"},{"@type":"ListItem","position":2,"name":"Les matchs de la semaine","item":"https://baromatch.fr/matchs/"}]}]}</script>
+<script type="application/ld+json">{"@context":"https://schema.org","@graph":[{"@type":"CollectionPage","@id":"https://baromatch.fr/matchs/","url":"https://baromatch.fr/matchs/","name":"Les matchs de la semaine — Baromatch","description":"2 matchs d’ici mardi 17 novembre, à l’heure de Paris. Baromatch cherche ses premiers bars à Paris.","inLanguage":"fr-FR","isPartOf":{"@id":"https://baromatch.fr/#site"},"publisher":{"@id":"https://baromatch.fr/#organisation"}},{"@type":"BreadcrumbList","itemListElement":[{"@type":"ListItem","position":1,"name":"Accueil","item":"https://baromatch.fr/"},{"@type":"ListItem","position":2,"name":"Les matchs de la semaine","item":"https://baromatch.fr/matchs/"}]}]}</script>
 </head>
 <body>
 <a class="lien-evitement" href="#contenu">Aller au contenu</a>
@@ -71,8 +71,8 @@
   <p class="regarder-premiers__bars"><strong>Tu tiens un bar ?</strong> <a href="/pour-les-bars.html#proposer">Proposer mon bar</a></p>
 </section>
 <section class="regarder-section regarder-ce-soir" aria-labelledby="titre-ce-soir">
-  <h2 id="titre-ce-soir">Ce soir, mardi 10 novembre</h2>
-  <p>Pas de match annoncé ce soir.</p>
+  <h2 id="titre-ce-soir">Aujourd’hui, mercredi 11 novembre</h2>
+  <p>Pas de match annoncé aujourd’hui.</p>
 </section>
 <section class="regarder-section" aria-labelledby="jour-2026-11-12">
   <h2 id="jour-2026-11-12">Jeudi 12 novembre</h2>

diff --git a/index.html b/index.html
@@ -133,27 +133,23 @@
 </div>
 <p class="semaine__chapo">Les matchs des sept prochains jours, à l’heure de Paris, chacun avec sa page. Aucun bar ne les annonce encore sur Baromatch.</p>
 <p class="semaine__liens"><a href="#attente">Préviens-moi quand Baromatch arrive</a><a href="/pour-les-bars.html#proposer">Tu tiens un bar ? Propose-le</a></p>
-<div class="semaine__jours" data-aujourdhui="2026-11-10">
+<div class="semaine__jours" data-aujourdhui="2026-11-11">
 <fieldset class="semaine__dates">
 <legend class="visuellement-cache">Choisis un jour</legend>
-<label class="semaine__date"><input type="radio" name="semaine-jour" value="2026-11-10"><span><b data-date="mar. 10">Aujourd’hui</b><small>aucun match</small></span></label>
-<label class="semaine__date"><input type="radio" name="semaine-jour" value="2026-11-11"><span><b data-date="mer. 11">Demain</b><small>aucun match</small></span></label>
-<label class="semaine__date"><input type="radio" name="semaine-jour" value="2026-11-12" checked><span><b data-date="jeu. 12">jeu. 12</b><small>1 match</small></span></label>
+<label class="semaine__date"><input type="radio" name="semaine-jour" value="2026-11-11"><span><b data-date="mer. 11">Aujourd’hui</b><small>aucun match</small></span></label>
+<label class="semaine__date"><input type="radio" name="semaine-jour" value="2026-11-12" checked><span><b data-date="jeu. 12">Demain</b><small>1 match</small></span></label>
 <label class="semaine__date"><input type="radio" name="semaine-jour" value="2026-11-13"><span><b data-date="ven. 13">ven. 13</b><small>aucun match</small></span></label>
 <label class="semaine__date"><input type="radio" name="semaine-jour" value="2026-11-14"><span><b data-date="sam. 14">sam. 14</b><small>aucun match</small></span></label>
 <label class="semaine__date"><input type="radio" name="semaine-jour" value="2026-11-15"><span><b data-date="dim. 15">dim. 15</b><small>1 match</small></span></label>
 <label class="semaine__date"><input type="radio" name="semaine-jour" value="2026-11-16"><span><b data-date="lun. 16">lun. 16</b><small>aucun match</small></span></label>
+<label class="semaine__date"><input type="radio" name="semaine-jour" value="2026-11-17"><span><b data-date="mar. 17">mar. 17</b><small>aucun match</small></span></label>
 </fieldset>
-<div class="semaine__jour" data-jour="2026-11-10">
-<h3 class="semaine__titre-jour" data-date="Mardi 10 novembre">Aujourd’hui, mardi 10 novembre</h3>
-<p class="semaine__rien">Pas de match annoncé ce jour-là.</p>
-</div>
 <div class="semaine__jour" data-jour="2026-11-11">
-<h3 class="semaine__titre-jour" data-date="Mercredi 11 novembre">Demain, mercredi 11 novembre</h3>
+<h3 class="semaine__titre-jour" data-date="Mercredi 11 novembre">Aujourd’hui, mercredi 11 novembre</h3>
 <p class="semaine__rien">Pas de match annoncé ce jour-là.</p>
 </div>
 <div class="semaine__jour" data-jour="2026-11-12">
-<h3 class="semaine__titre-jour">Jeudi 12 novembre</h3>
+<h3 class="semaine__titre-jour" data-date="Jeudi 12 novembre">Demain, jeudi 12 novembre</h3>
 <ul class="semaine__cartes">
 <li class="carte-match">
 <p class="carte-match__haut"><span class="carte-match__heure"><time datetime="2026-11-12T20:45:00+01:00">20:45</time></span><span class="carte-match__compet">Ligue des nations</span></p>
@@ -182,6 +178,10 @@
 </div>
 <div class="semaine__jour" data-jour="2026-11-16">
 <h3 class="semaine__titre-jour">Lundi 16 novembre</h3>
+<p class="semaine__rien">Pas de match annoncé ce jour-là.</p>
+</div>
+<div class="semaine__jour" data-jour="2026-11-17">
+<h3 class="semaine__titre-jour">Mardi 17 novembre</h3>
 <p class="semaine__rien">Pas de match annoncé ce jour-là.</p>
 </div>
 </div>
